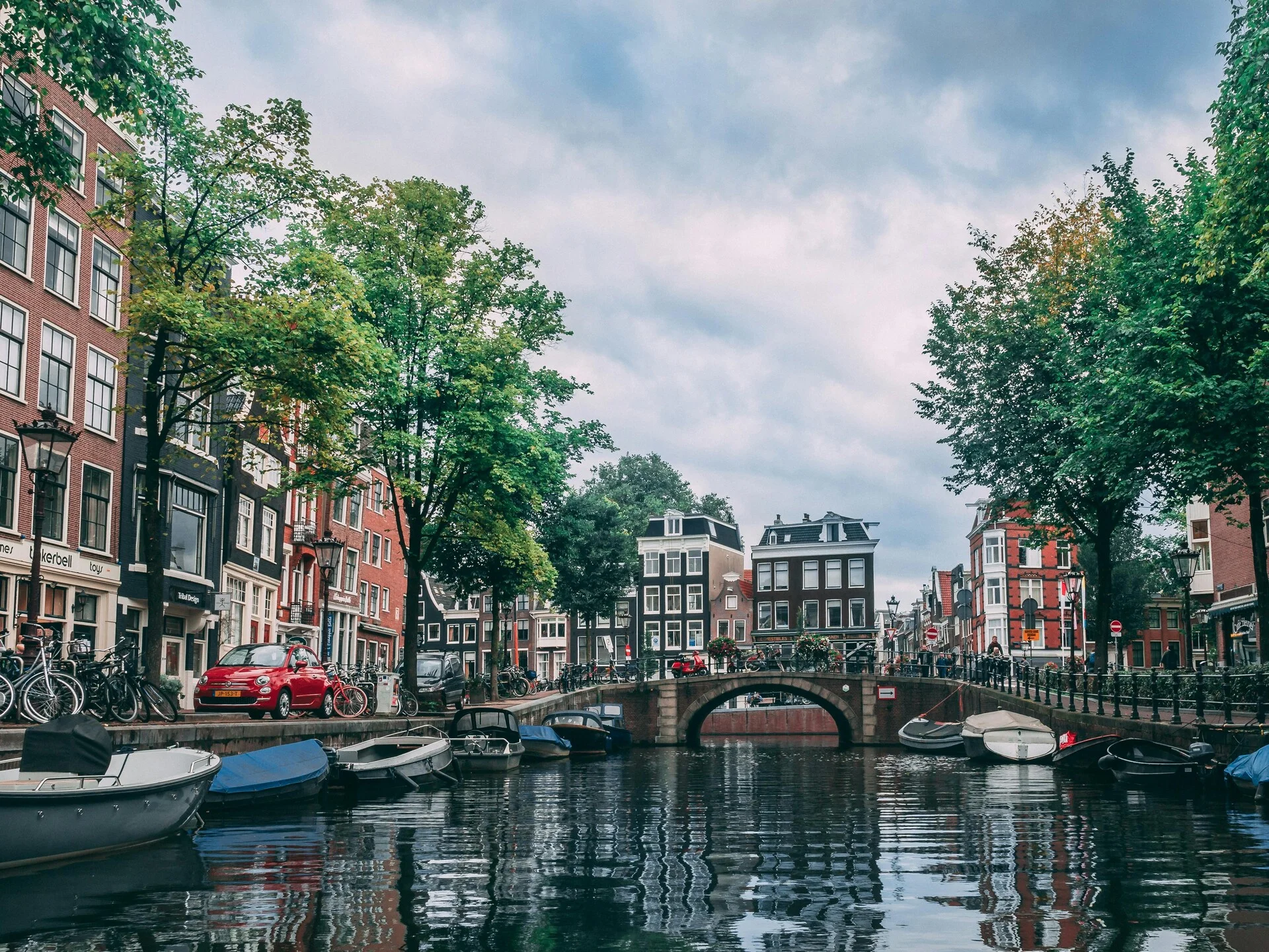
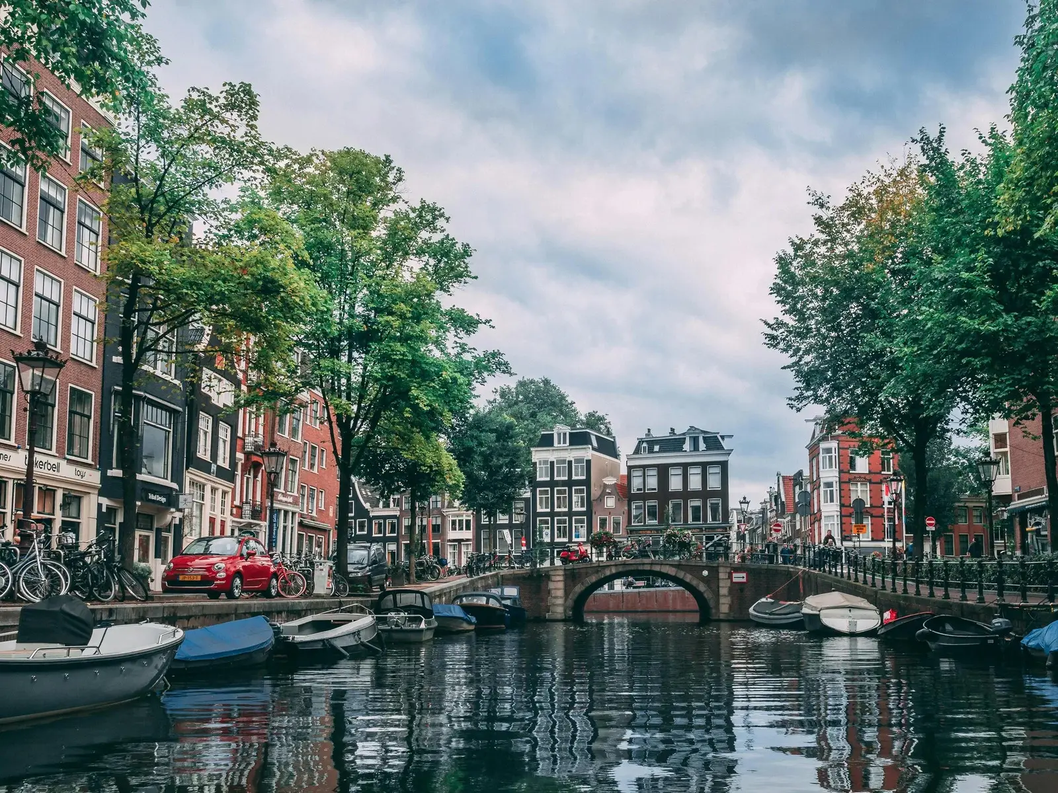
Optimize pattern image file sizes
Reduced file sizes for three banner images while maintaining visual quality:
- banner-boats-16x9.webp
- cafe-terrace-hero.webp
- banner-boats-4x3.webp

Improves page load times and reduces bandwidth usage across demo pages.

diff --git a/style.css b/style.css
@@ -7,7 +7,7 @@ Description: A premium business block theme with advanced patterns for professio
 Requires at least: 6.6
 Tested up to: 6.9
 Requires PHP: 8.0
-Version: 3.1.2
+Version: 3.1.3
 License: GNU General Public License v3 or later
 License URI: https://www.gnu.org/licenses/gpl-3.0.html
 Text Domain: elayne

diff --git a/CHANGELOG.md b/CHANGELOG.md
@@ -7,6 +7,17 @@ and this project adheres to [Semantic Versioning](https://semver.org/spec/v2.0.0
 
 ## [Unreleased]
 
+## [3.1.3] - 2026-02-12
+
+### Changed
+
+**Pattern Images - File Size Optimization:**
+- Reduced file sizes for three pattern images while maintaining visual quality
+- `banner-boats-16x9.webp`: Optimized general banner image
+- `cafe-terrace-hero.webp`: Optimized Food & Beverage demo hero image
+- `banner-boats-4x3.webp`: Optimized Legal demo banner image
+- Improves page load times and reduces bandwidth usage across demo pages",
+
 ## [3.1.2] - 2026-02-12
 
 ### Removed
